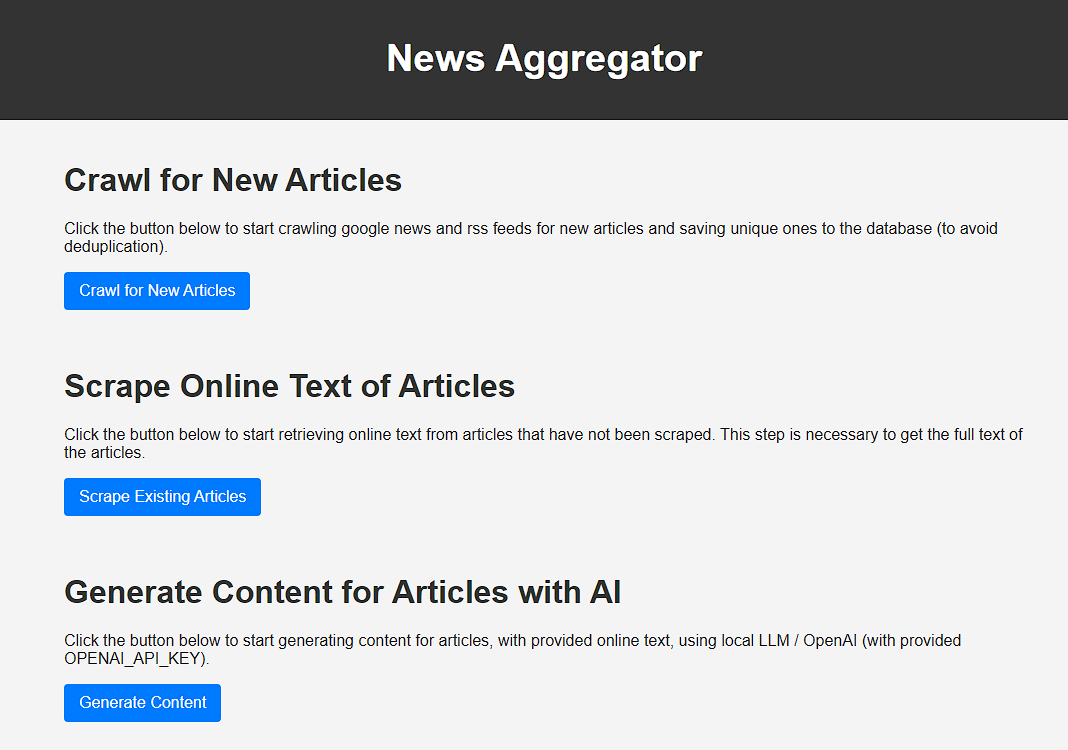
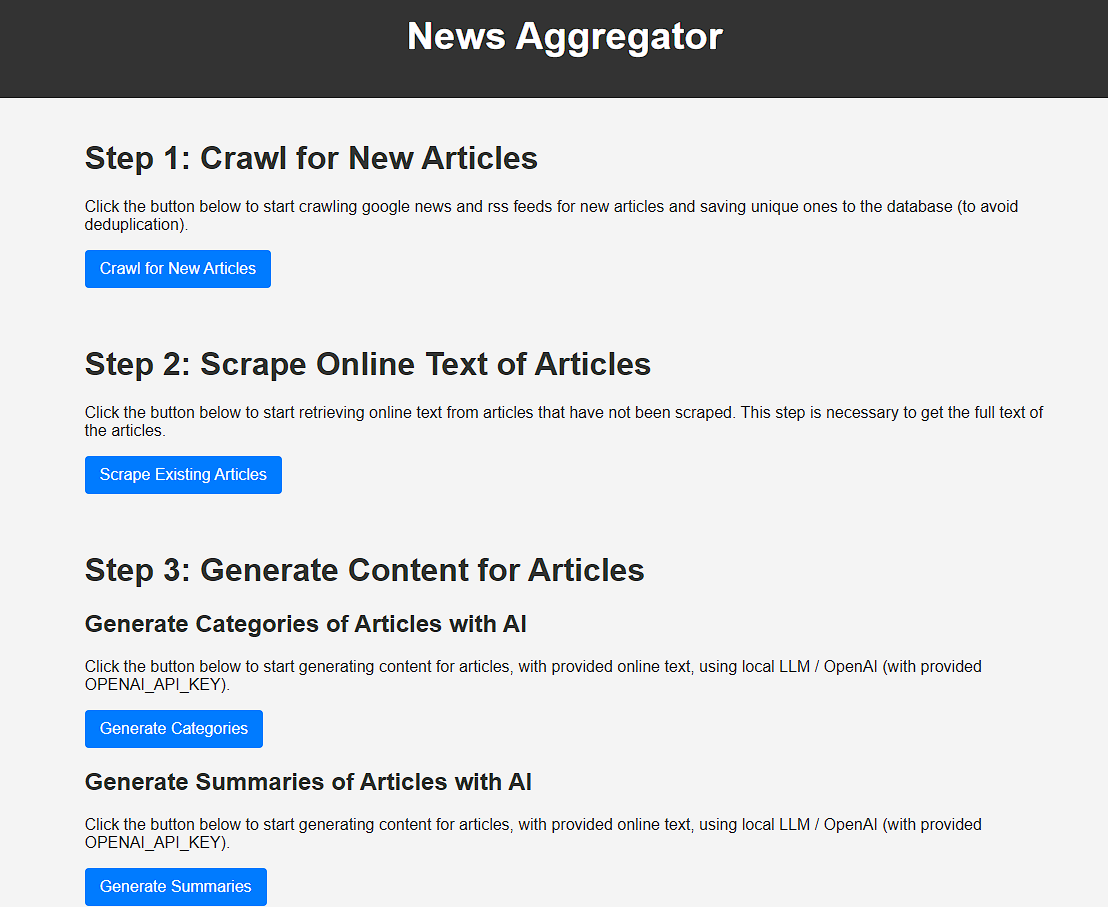
ensure only articles that are not removed from display have content generated by AI

Changed region(s): [[0.0618, 0.2147, 0.9579, 1.0], [0.0, 0.0307, 1.0, 0.184], [0.4635, 0.276, 0.927, 0.3373]]

diff --git a/src/templates/getting_news.html b/src/templates/getting_news.html
@@ -5,7 +5,7 @@
 {% block content %}
 <div class="container" style="display: flex; flex-direction: column; gap: 20px">
   <div>
-    <h1>Crawl for New Articles</h1>
+    <h1>Step 1: Crawl for New Articles</h1>
     <p>
       Click the button below to start crawling google news and rss feeds for new articles and saving
       unique ones to the database (to avoid deduplication).
@@ -14,7 +14,7 @@
     <p id="crawl-status"></p>
   </div>
   <div>
-    <h1>Scrape Online Text of Articles</h1>
+    <h1>Step 2: Scrape Online Text of Articles</h1>
     <p>
       Click the button below to start retrieving online text from articles that have not been
       scraped. This step is necessary to get the full text of the articles.
@@ -23,16 +23,15 @@
     <p id="scrape-status"></p>
   </div>
   <div>
-    <h1>Generate Categories of Articles with AI</h1>
+    <h1>Step 3: Generate Content for Articles</h1>
+    <h2>Generate Categories of Articles with AI</h2>
     <p>
       Click the button below to start generating content for articles, with provided online text,
       using local LLM / OpenAI (with provided OPENAI_API_KEY).
     </p>
     <button id="generate-categories-button" class="btn btn-primary">Generate Categories</button>
     <p id="generate-categories-status"></p>
-  </div>
-  <div>
-    <h1>Generate Summaries of Articles with AI</h1>
+    <h2>Generate Summaries of Articles with AI</h2>
     <p>
       Click the button below to start generating content for articles, with provided online text,
       using local LLM / OpenAI (with provided OPENAI_API_KEY).

diff --git a/src/services/news_item_service.py b/src/services/news_item_service.py
@@ -72,6 +72,10 @@ class NewsItemService:
                     return int(insert_response.data.id)
                 else:
                     print(f"Database Insert Failed: {insert_response.message}")
+            else:
+                print(
+                    f"Article already exists in the database with ID {fetched_news_item_response.data[0]['id']}"
+                )
         except Exception as e:
             print(f"Error processing article: {e}")
         return None
@@ -289,7 +293,7 @@ class NewsItemService:
         """
         db_query = self.database_service.query_select_news_items_from_db(
             not_null_fields=["crawl4ai_result"],
-            filters={"generated_summary": "null"},
+            filters={"is_removed_from_display": False, "generated_summary": "null"},
         )
         db_query_response = db_query.execute()
 
@@ -311,7 +315,7 @@ class NewsItemService:
         """
         db_query = self.database_service.query_select_news_items_from_db(
             not_null_fields=["crawl4ai_result"],
-            filters={"generated_category": "null"},
+            filters={"is_removed_from_display": False, "generated_category": "null"},
         )
         db_query_response = db_query.execute()
 
@@ -332,7 +336,10 @@ class NewsItemService:
         Download articles marked as 'is_selected_for_download' into a CSV file.
         """
         db_query = self.database_service.query_select_news_items_from_db(
-            filters={"is_selected_for_download": True}
+            filters={
+                "is_selected_for_download": True,
+                "is_removed_from_display": False,
+            }
         )
         db_query_response = db_query.execute()
 
